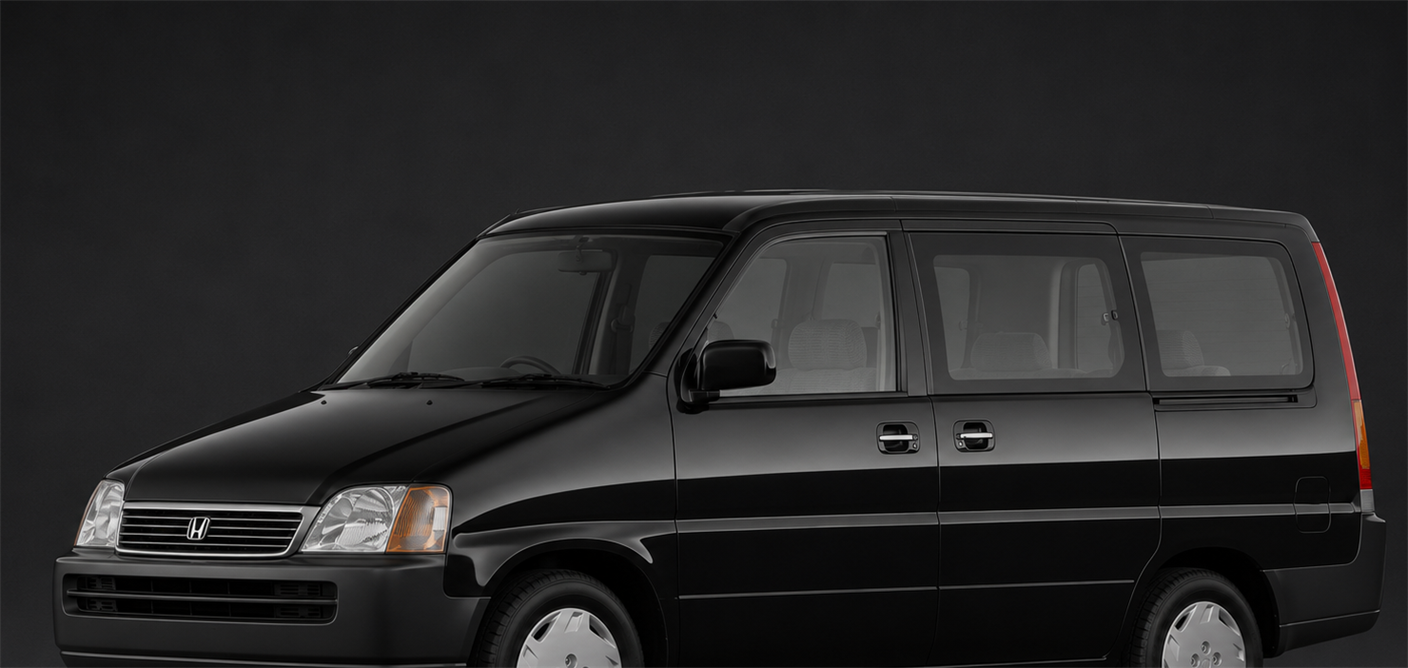
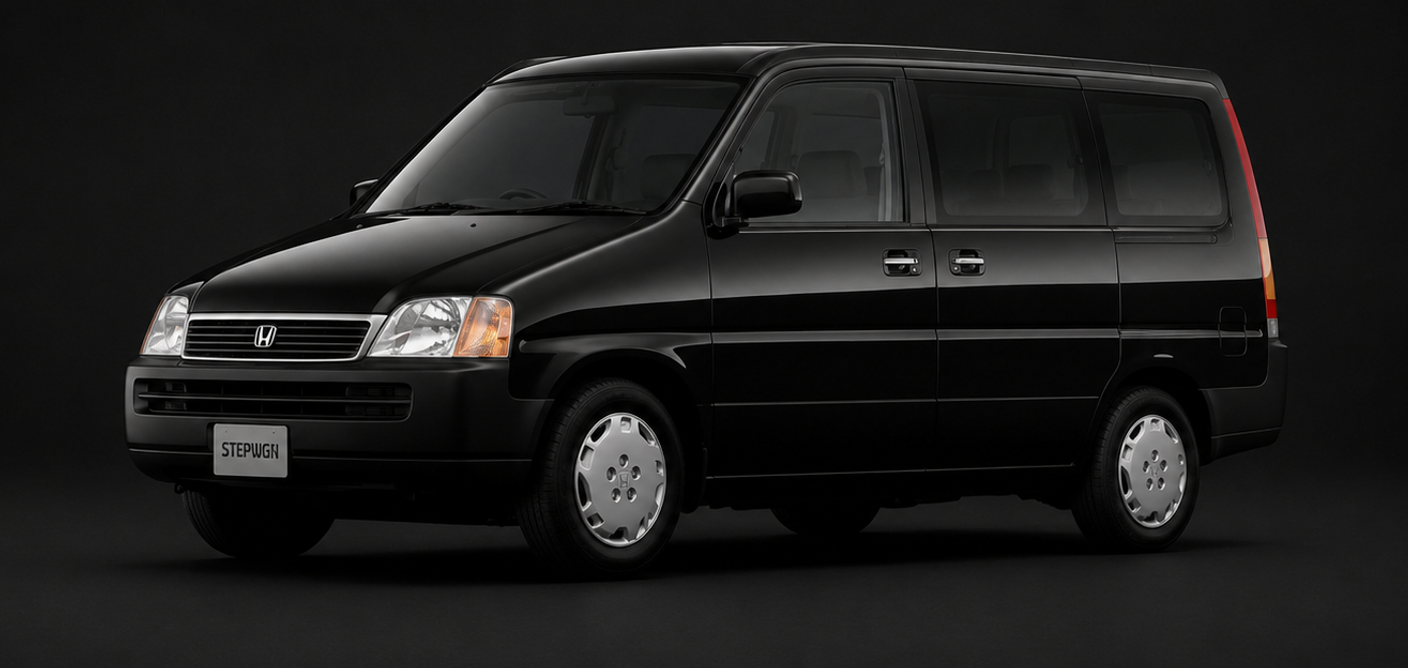
fix: replace SERENA/STEPWGN gen1-2 photos to match sibling scale

diff --git a/src/cars/stepwgn.js b/src/cars/stepwgn.js
@@ -12,6 +12,17 @@
 // Annotation x/y dot positions were re-checked directly against this
 // vehicle's actual photos (2026-07-29, all 27 generations site-wide --
 // see git history, includes a gen1-2 re-crop for framing consistency).
+// gen1/gen2 photos were replaced again (2026-07-31, user-supplied) --
+// their car was recorded noticeably smaller/higher in frame than every
+// other generation on the site (measured: ~71% of frame height vs.
+// ~87-93% for gen3-6), which is what actually caused the "見切れ"
+// (cut off at the bottom) complaint -- a source-photo scale mismatch,
+// not a CSS crop problem, so it couldn't be fixed by adjusting
+// object-position/scale alone (verified: neither image had enough
+// spare width margin to crop in on the height without cutting into
+// the car's own front/rear). Annotation coordinates below were
+// re-derived against these new photos, not carried over from the old
+// ones.
 const generations = [
   {
     numeral: 'I',
@@ -23,8 +34,8 @@ const generations = [
     period: '1996年〜2001年',
     image: '/images/cars/stepwgn/gen1-1996.webp',
     annotations: [
-      { x: 25, y: 70, label: '無骨で実用的なフロントグリル', dir: 'bottom', labelX: 25 },
-      { x: 60, y: 32, label: '背の高いウォークスルー・ボディ', dir: 'top', labelX: 62 },
+      { x: 20, y: 63, label: '無骨で実用的なフロントグリル', dir: 'bottom', labelX: 20 },
+      { x: 55, y: 15, label: '背の高いウォークスルー・ボディ', dir: 'top', labelX: 58 },
     ],
     facelift: {
       fromYear: '1996', toYear: '1999',
@@ -41,8 +52,8 @@ const generations = [
     period: '2001年〜2005年',
     image: '/images/cars/stepwgn/gen2-2001.webp',
     annotations: [
-      { x: 31, y: 62, label: 'キープコンセプトの台形グリル', dir: 'bottom', labelX: 31 },
-      { x: 48, y: 62, label: '張り出したフェンダーアーチ（SPADA）', dir: 'bottom', labelX: 62 },
+      { x: 19, y: 61, label: 'キープコンセプトの台形グリル', dir: 'bottom', labelX: 19 },
+      { x: 37, y: 75, label: '張り出したフェンダーアーチ（SPADA）', dir: 'bottom', labelX: 55 },
     ],
     facelift: {
       fromYear: '2001', toYear: '2003',

diff --git a/src/cars/serena.js b/src/cars/serena.js
@@ -15,6 +15,17 @@
 // Annotation x/y dot positions were re-checked directly against this
 // vehicle's actual photos (2026-07-29, all 27 generations site-wide --
 // see git history, includes a gen1-2 re-crop for framing consistency).
+// gen1/gen2 photos were replaced again (2026-07-31, user-supplied) --
+// their car was recorded noticeably smaller/higher in frame than every
+// other generation on the site (measured: ~64-74% of frame height vs.
+// ~78-90% for gen3-6), which is what actually caused the "見切れ"
+// (cut off at the bottom) complaint -- a source-photo scale mismatch,
+// not a CSS crop problem, so it couldn't be fixed by adjusting
+// object-position/scale alone (verified: neither image had enough
+// spare width margin to crop in on the height without cutting into
+// the car's own front/rear). Annotation coordinates below were
+// re-derived against these new photos, not carried over from the old
+// ones.
 const generations = [
   {
     numeral: 'I',
@@ -26,8 +37,8 @@ const generations = [
     period: '1991年〜1999年',
     image: '/images/cars/serena/gen1-1991.webp',
     annotations: [
-      { x: 25, y: 80, label: '商用車由来の無骨なグリル', dir: 'bottom', labelX: 25 },
-      { x: 60, y: 37, label: '直立した箱型フォルム', dir: 'top', labelX: 62 },
+      { x: 20, y: 60, label: '商用車由来の無骨なグリル', dir: 'bottom', labelX: 20 },
+      { x: 55, y: 20, label: '直立した箱型フォルム', dir: 'top', labelX: 58 },
     ],
     facelift: {
       fromYear: '1994', toYear: '1997',
@@ -45,8 +56,8 @@ const generations = [
     period: '1999年〜2005年',
     image: '/images/cars/serena/gen2-1999.webp',
     annotations: [
-      { x: 32, y: 53, label: '横方向に広がりを見せるグリル', dir: 'bottom', labelX: 32 },
-      { x: 58, y: 20, label: '低められた前傾フォルム', dir: 'top', labelX: 62 },
+      { x: 20, y: 58, label: '横方向に広がりを見せるグリル', dir: 'bottom', labelX: 20 },
+      { x: 45, y: 20, label: '低められた前傾フォルム', dir: 'top', labelX: 48 },
     ],
     facelift: {
       fromYear: '2001', toYear: '2001',
